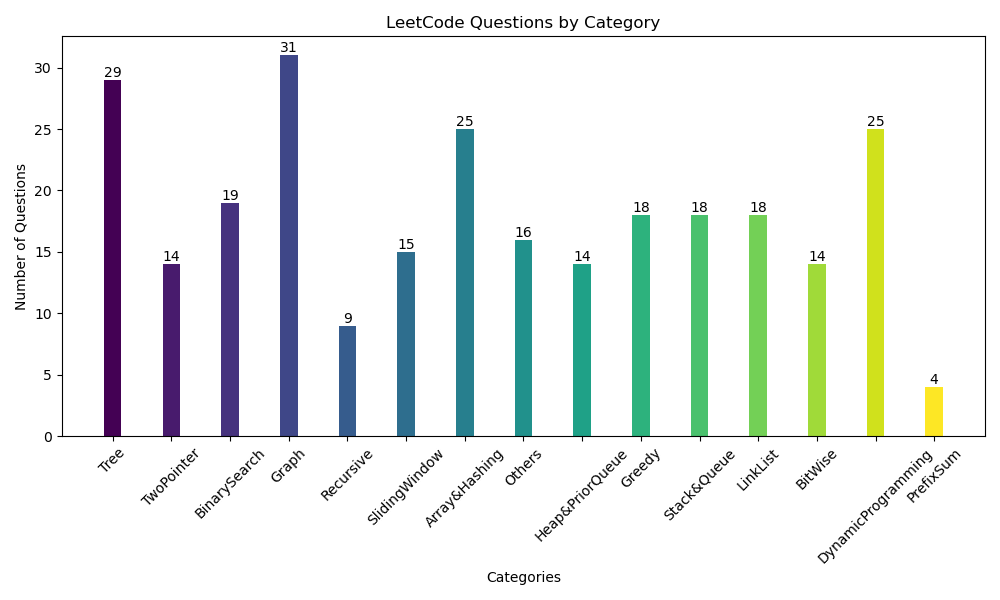
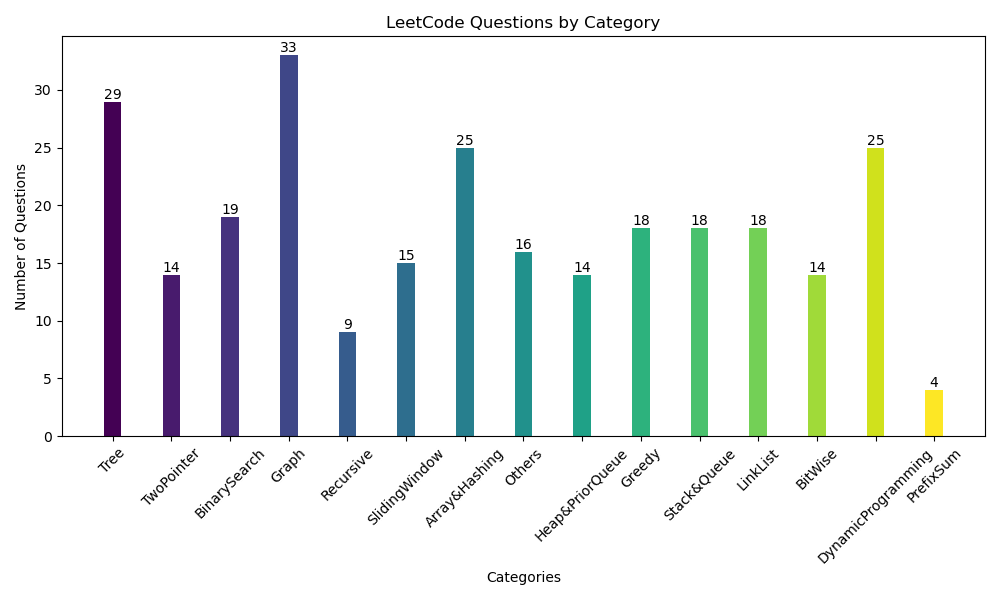
pratices DFS, BFS

diff --git a/Graph/133. Clone Graph.cpp b/Graph/133. Clone Graph.cpp
@@ -1,0 +1,45 @@
+/*
+// Definition for a Node.
+class Node {
+public:
+    int val;
+    vector<Node*> neighbors;
+    Node() {
+        val = 0;
+        neighbors = vector<Node*>();
+    }
+    Node(int _val) {
+        val = _val;
+        neighbors = vector<Node*>();
+    }
+    Node(int _val, vector<Node*> _neighbors) {
+        val = _val;
+        neighbors = _neighbors;
+    }
+};
+*/
+/*
+    DFS 會有問題, 如果後面的node 會連回前面的node就會產生重複的new_node
+
+    正確做法在於DFS的同時用hashmap 維護已經存在的node
+
+    hashmap<old_Node, new_Node>
+*/
+class Solution {
+  public:
+	unordered_map<Node *, Node *> node_map;
+	Node *cloneGraph(Node *node) { return dfs(node); }
+	Node *dfs(Node *node) {
+		if (!node)
+			return nullptr;
+		if (node_map.count(node) == 0) {
+			Node *new_node = new Node(node->val);
+			node_map[node] = new_node;
+			for (int i = 0; i < node->neighbors.size(); ++i) {
+				new_node->neighbors.push_back(dfs(node->neighbors[i]));
+			}
+			return new_node;
+		} else
+			return node_map[node];
+	}
+};

diff --git a/Graph/841. Keys and Rooms.cpp b/Graph/841. Keys and Rooms.cpp
@@ -1,0 +1,28 @@
+/*
+    BFS, 每次用拿到的key 打開room, 並記錄打開的room count, 如果count ==
+   rooms.size(), 代表全部打開
+*/
+class Solution {
+  public:
+	bool canVisitAllRooms(vector<vector<int>> &rooms) {
+		queue<int> q;
+		unordered_set<int> opened; // 可能會有重複key
+		opened.insert(0);
+		for (int &key : rooms[0])
+			q.push(key);
+
+		while (!q.empty()) {
+			int cur_key = q.front();
+			if (opened.count(cur_key) > 0) {
+				// already open
+				q.pop();
+				continue;
+			}
+			opened.insert(cur_key);
+			for (int &next_key : rooms[cur_key]) {
+				q.push(next_key);
+			}
+		}
+		return opened.size() == rooms.size();
+	}
+};

diff --git a/README.md b/README.md
@@ -1,7 +1,7 @@
 # LeetCode Problems
 
 ❌  can't resolve without solution: 31
-📝  can't resolve without hint: 191
+📝  can't resolve without hint: 193
 ✅  resolve by self: 47
 ## Tree
 - ❌ 105. Construct Binary Tree from Preorder and Inorder Traversal
@@ -87,9 +87,11 @@
 - 📝 684. (UnionFind)Redundant Connection
 - 📝 PacificAtlanticWaterFlow
 - 📝 isoLand
+- 📝 133. Clone Graph
 - 📝 3249. Count the Number of Good Nodes
 - 📝 778. Swim in Rising Water
 - 📝 743.NetworkDelayTime
+- 📝 841. Keys and Rooms
 - 📝 3372. Maximize the Number of Target Nodes After Connecting Trees I
 - 📝 210.CourseSchedule2
 - 📝 1061. Lexicographically Smallest Equivalent String
@@ -258,13 +260,13 @@
 - 📝 reversebit
 - 📝 67. Add Binary
 - 📝 getSum
-- 📝   Code  Test Result  Testcase Testcase 201. Bitwise AND of Numbers Range
 - 📝 1922.CountGoodNumbers
 - 📝 reverseInt
 - 📝 SingleNum
 - 📝 2857. Count Pairs of Points With Distance k
 - 📝 #OneBits
 - 📝 CountingBits
+- 📝 201. Bitwise AND of Numbers Range
 - 📝 MissingNumber
 - ✅ 1863.SumofAllSubsetXORTotals
 - ✅ 2527. Find Xor-Beauty of Array
@@ -303,7 +305,7 @@
 - 📝 2574. Left and Right Sum Differences
 
 ## Statistics
-Current total questions: 266
+Current total questions: 268
 
 <img src="chart.png" alt="questions bar chart" width="500">
 

diff --git a/Graph/README.md b/Graph/README.md
@@ -5,6 +5,7 @@
 ## BFS
 
 rottingFruit
+Keys and Rooms
 
 1298. Maximum Candies You Can Get from Boxes
 
